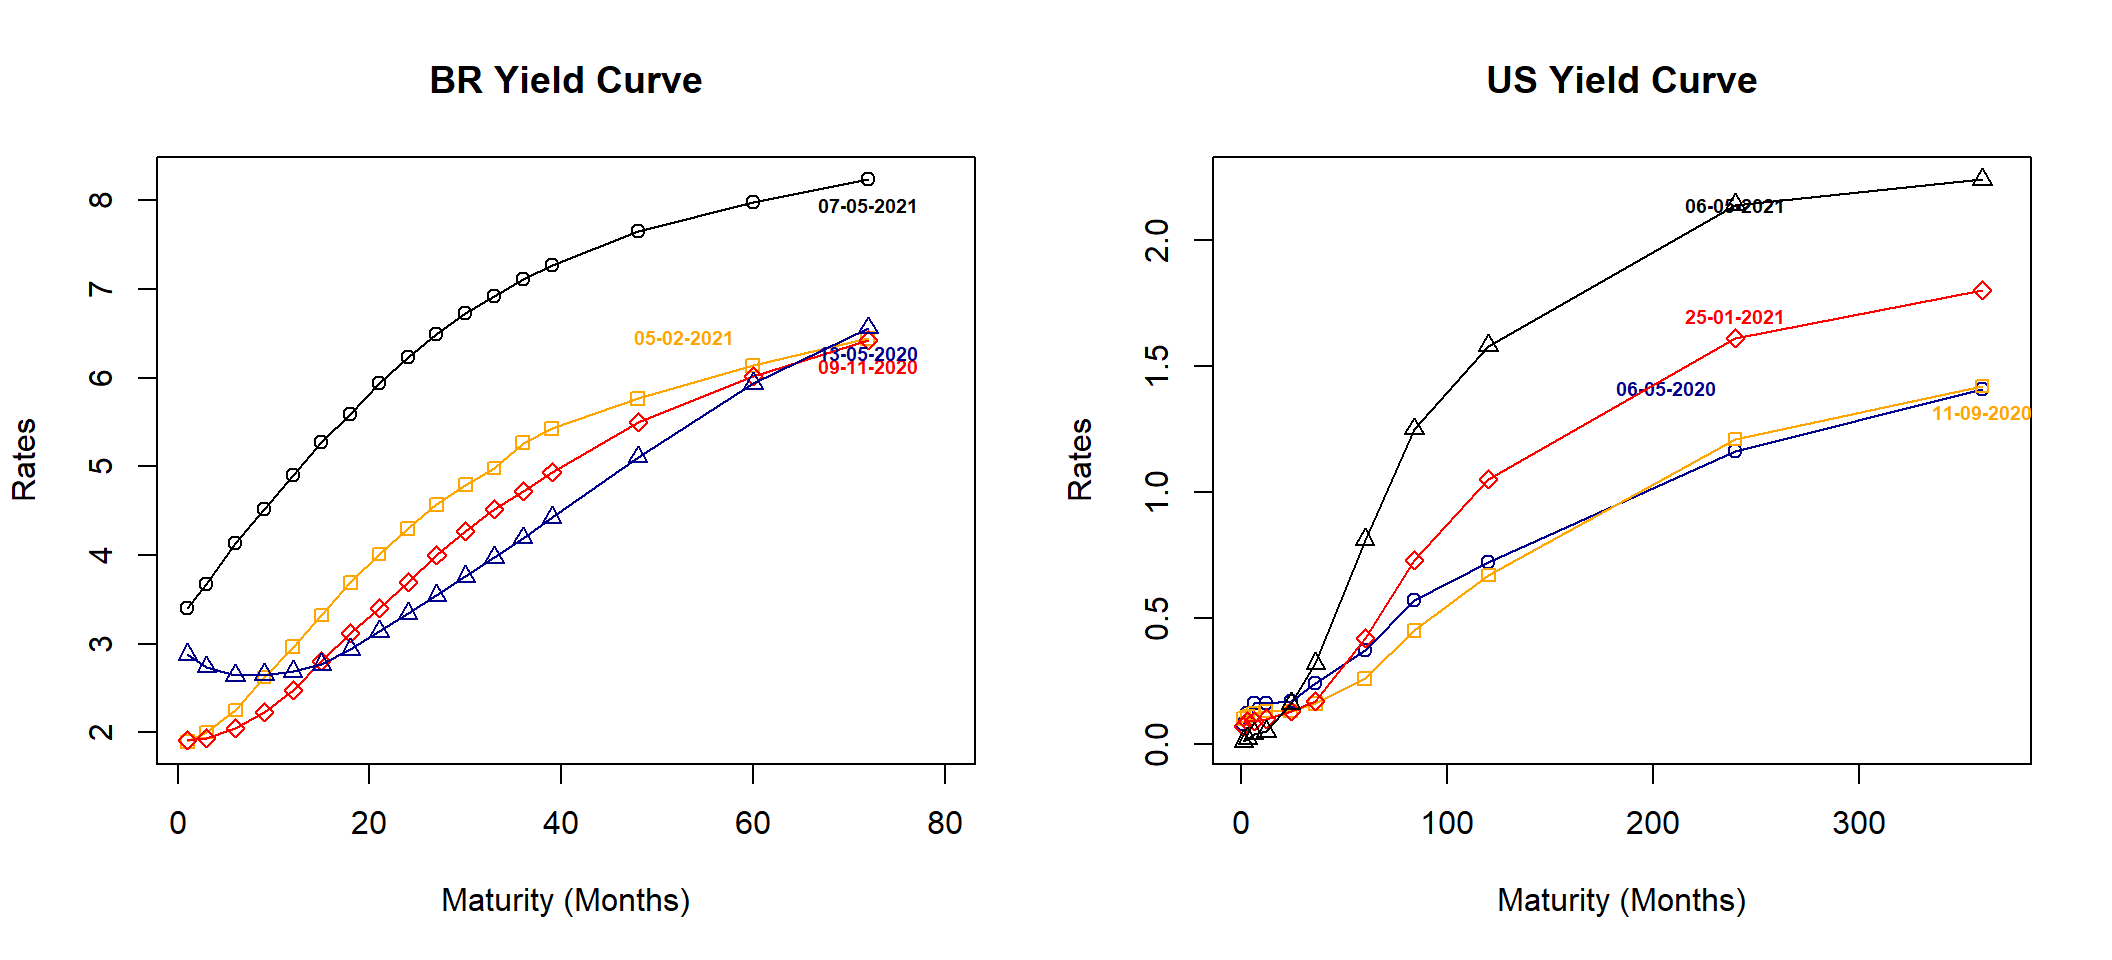
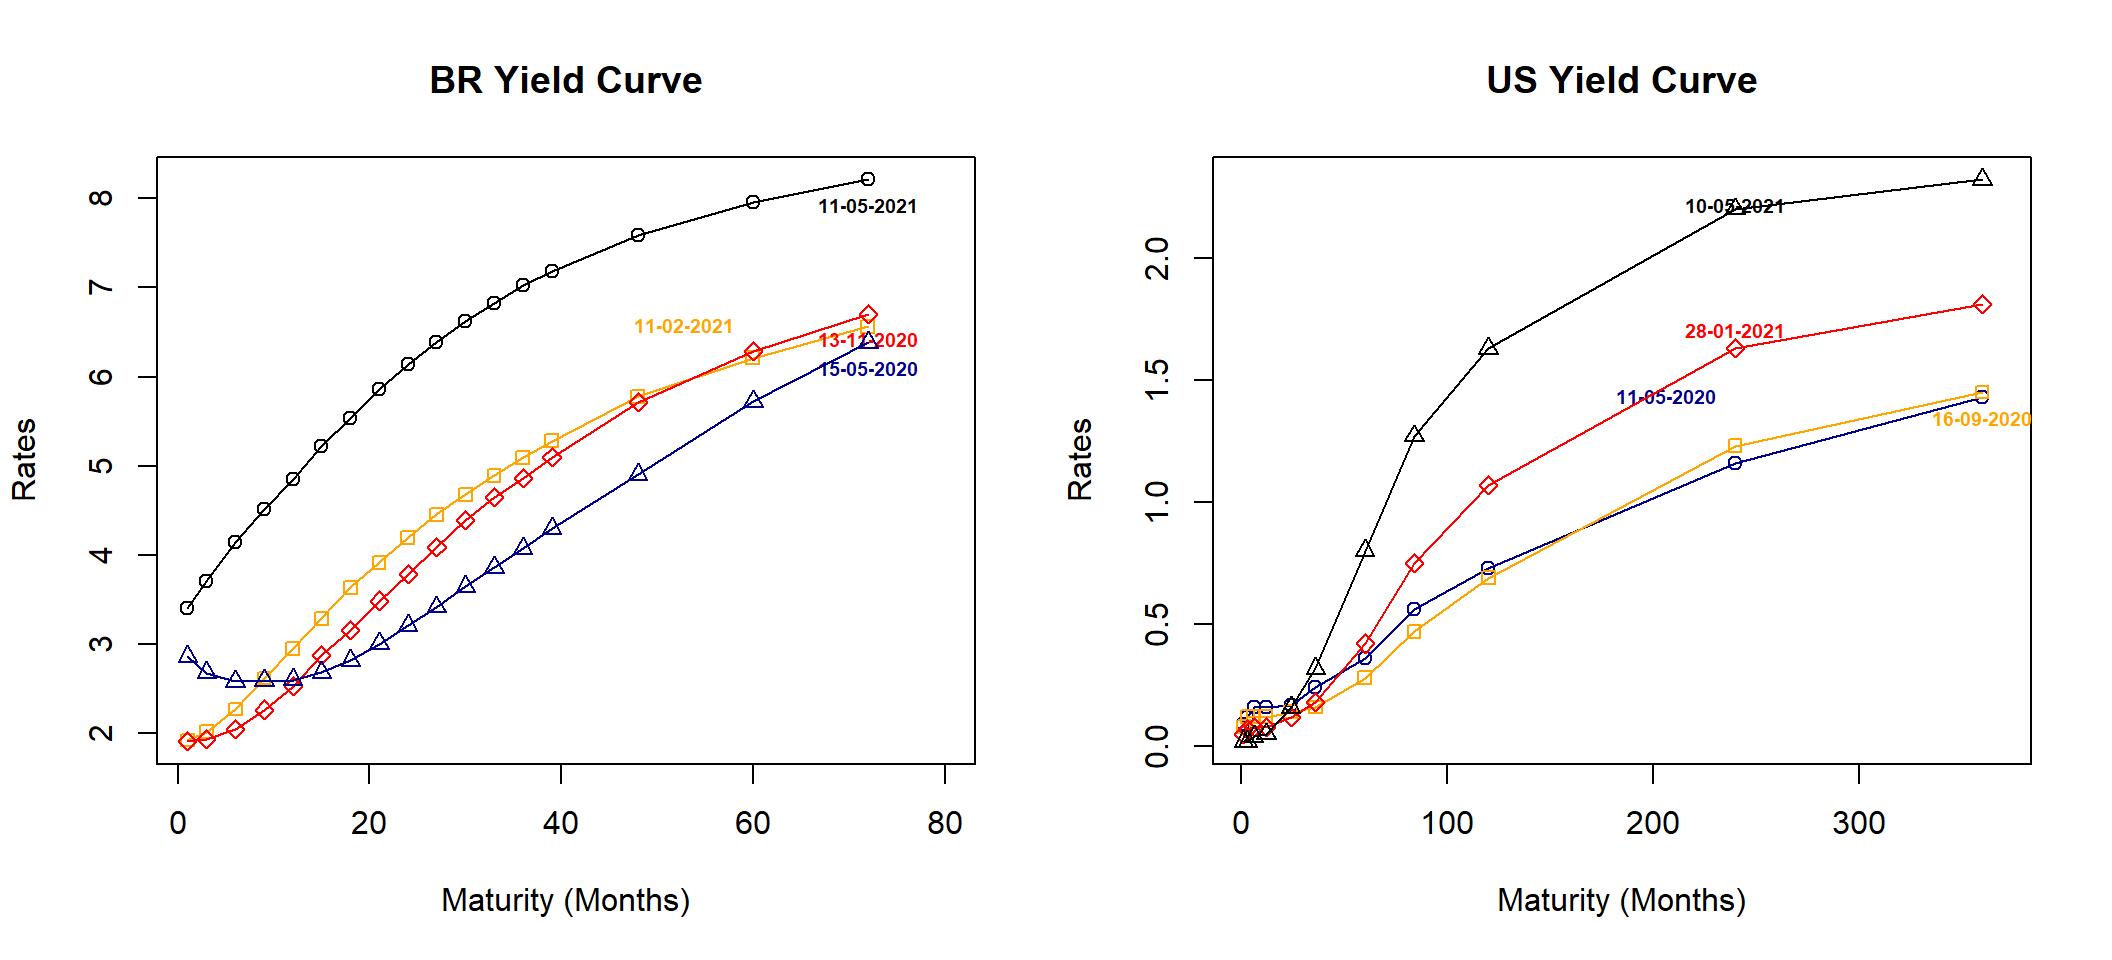
Add files via upload

diff --git a/index.html b/index.html
@@ -10,7 +10,7 @@
 
 
 
-<meta name="date" content="2021-08-05" />
+<meta name="date" content="2021-12-05" />
 
 <title>Yield Curves of BR, US, CN, and RU</title>
 
@@ -295,12 +295,12 @@ $(document).ready(function () {
 
 
 <h1 class="title toc-ignore">Yield Curves of BR, US, CN, and RU</h1>
-<h4 class="date">08/05/2021</h4>
+<h4 class="date">12/05/2021</h4>
 
 </div>
 
 
-<p>The charts below present the yield curves of Brazil, the US, China, and Russia to four selected dates. A yield curve is a line that plots yields (interest rates) of bonds having equal credit quality but differing maturity dates. The slope of the yield curve gives an idea of future interest rate changes and economic activity (<a href="https://www.investopedia.com/terms/y/yieldcurve.asp">more details</a>).</p>
+<p>The charts present the yield curves of Brazil, the US, China, and Russia to four selected dates. A yield curve is a line that plots yields (interest rates) of bonds having equal credit quality but differing maturity dates. The slope of the yield curve gives an idea of future interest rate changes and economic activity (<a href="https://www.investopedia.com/terms/y/yieldcurve.asp">more details</a>).</p>
 <p>Recommended R packages:</p>
 <p><a href="https://cran.r-project.org/web/packages/GBcurves/index.html">+ GBcurves (BR, CN, and RU)</a></p>
 <p><a href="https://cran.r-project.org/web/packages/fredr/index.html">+ fredr (US)</a></p>
